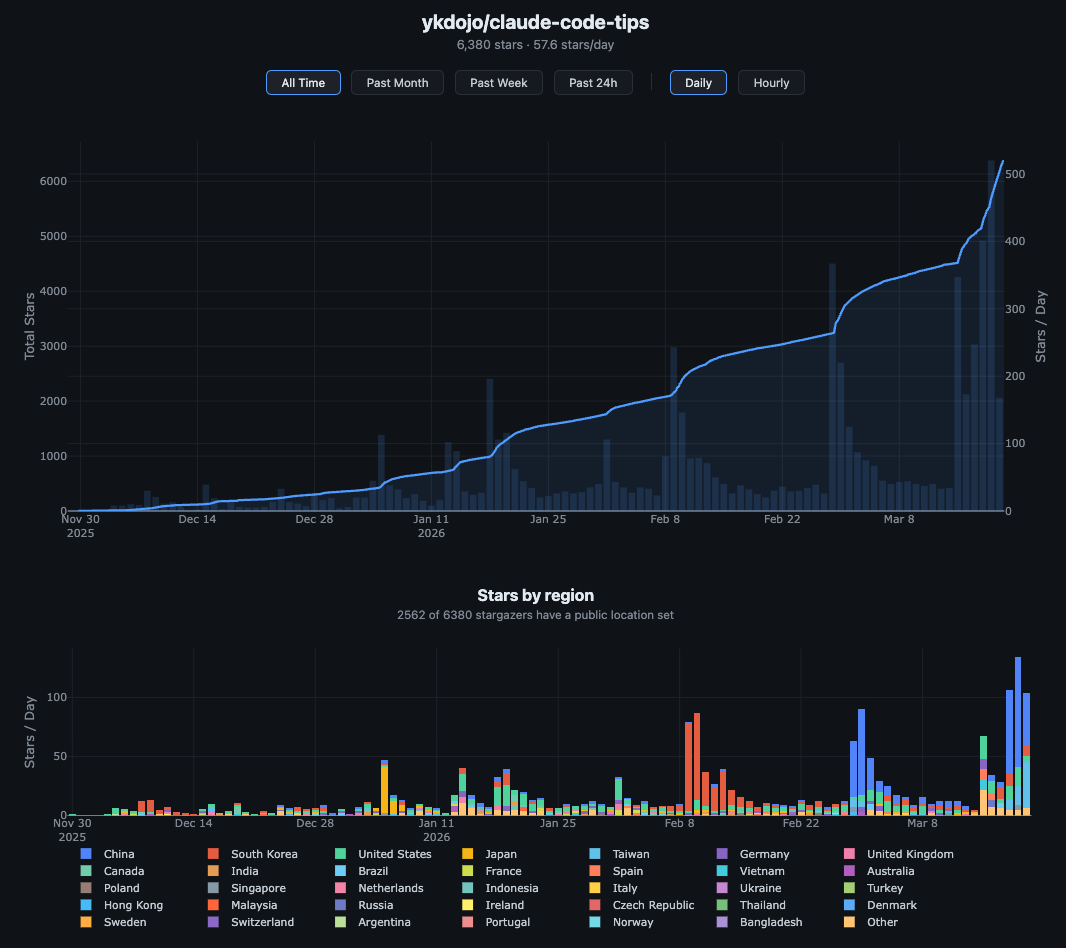
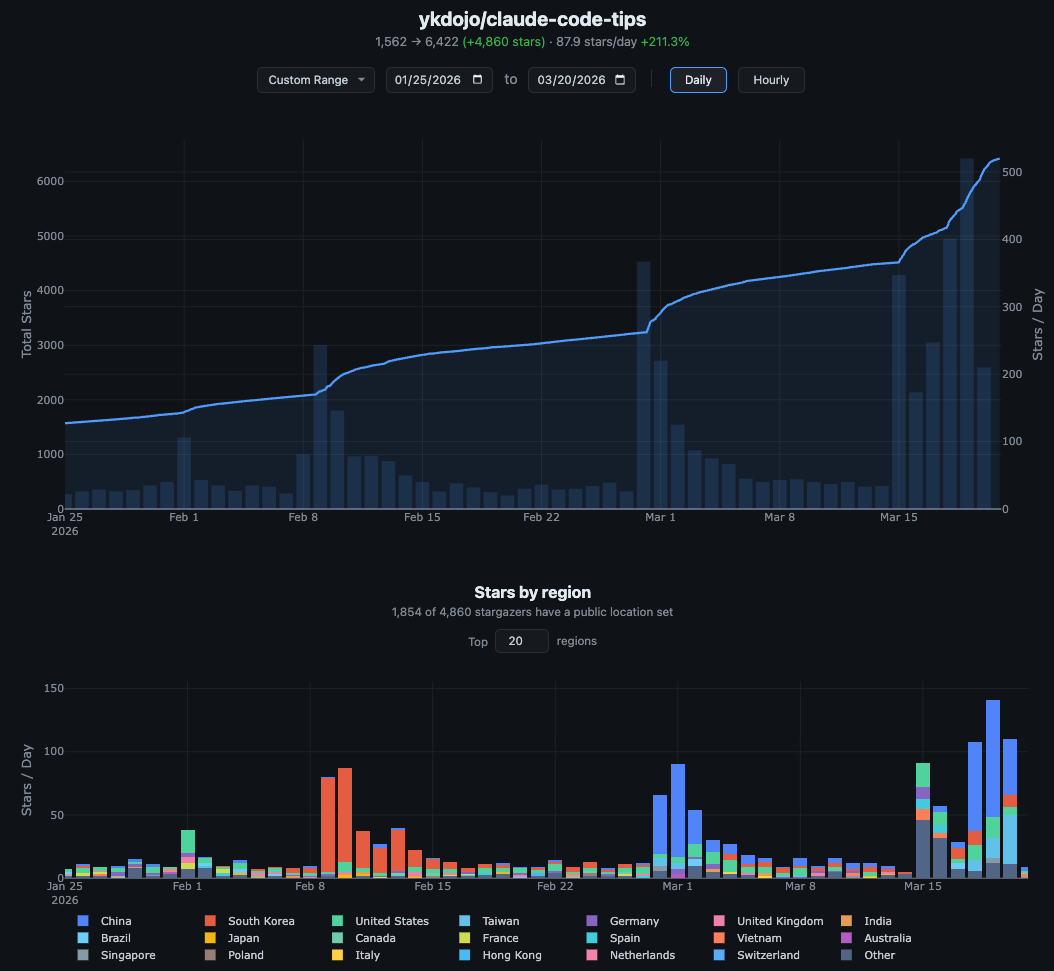
Update README and hero image for new features
Update hero screenshot, simplify description, add dynamic top N
and date-range-responsive regions to region breakdown section.

diff --git a/README.md b/README.md
@@ -2,7 +2,7 @@
 
 ![star-history-with-regions](star-history-with-regions.png)
 
-Visualize GitHub star history and regional breakdown as interactive charts. Powered by the [GitHub CLI](https://cli.github.com/) - no API tokens needed.
+Visualize GitHub star history and regional breakdown as interactive charts. Powered by the [GitHub CLI](https://cli.github.com/) - no API tokens needed. Features date range selection, star growth tracking with period comparison, and dynamic regional breakdown.
 
 For example, if you want to see the star growth of [claude-code-tips](https://github.com/ykdojo/claude-code-tips):
 
@@ -20,7 +20,7 @@ npx gh-star-history vuejs/vue withastro/astro sveltejs/svelte
 
 ![comparison](comparison.png)
 
-Generates a self-contained HTML file with an interactive Plotly chart - hover for details, zoom into spikes, pan across time.
+Generates a self-contained HTML file with an interactive Plotly chart.
 
 ## Prerequisites
 
@@ -93,9 +93,10 @@ The region breakdown includes:
 
 - A stacked bar chart showing stars by region over time (top 5 regions per day)
 - An overall breakdown horizontal bar chart with percentages
+- Dynamic top N control - choose how many regions to show individually vs grouped into "Other"
 - Hover over "Other" to see the full breakdown of smaller regions
 
-The region data responds to the time range and daily/hourly toggles.
+The top N regions are recomputed based on the selected date range, so you can see which regions are trending in any time period.
 
 ## Development
 